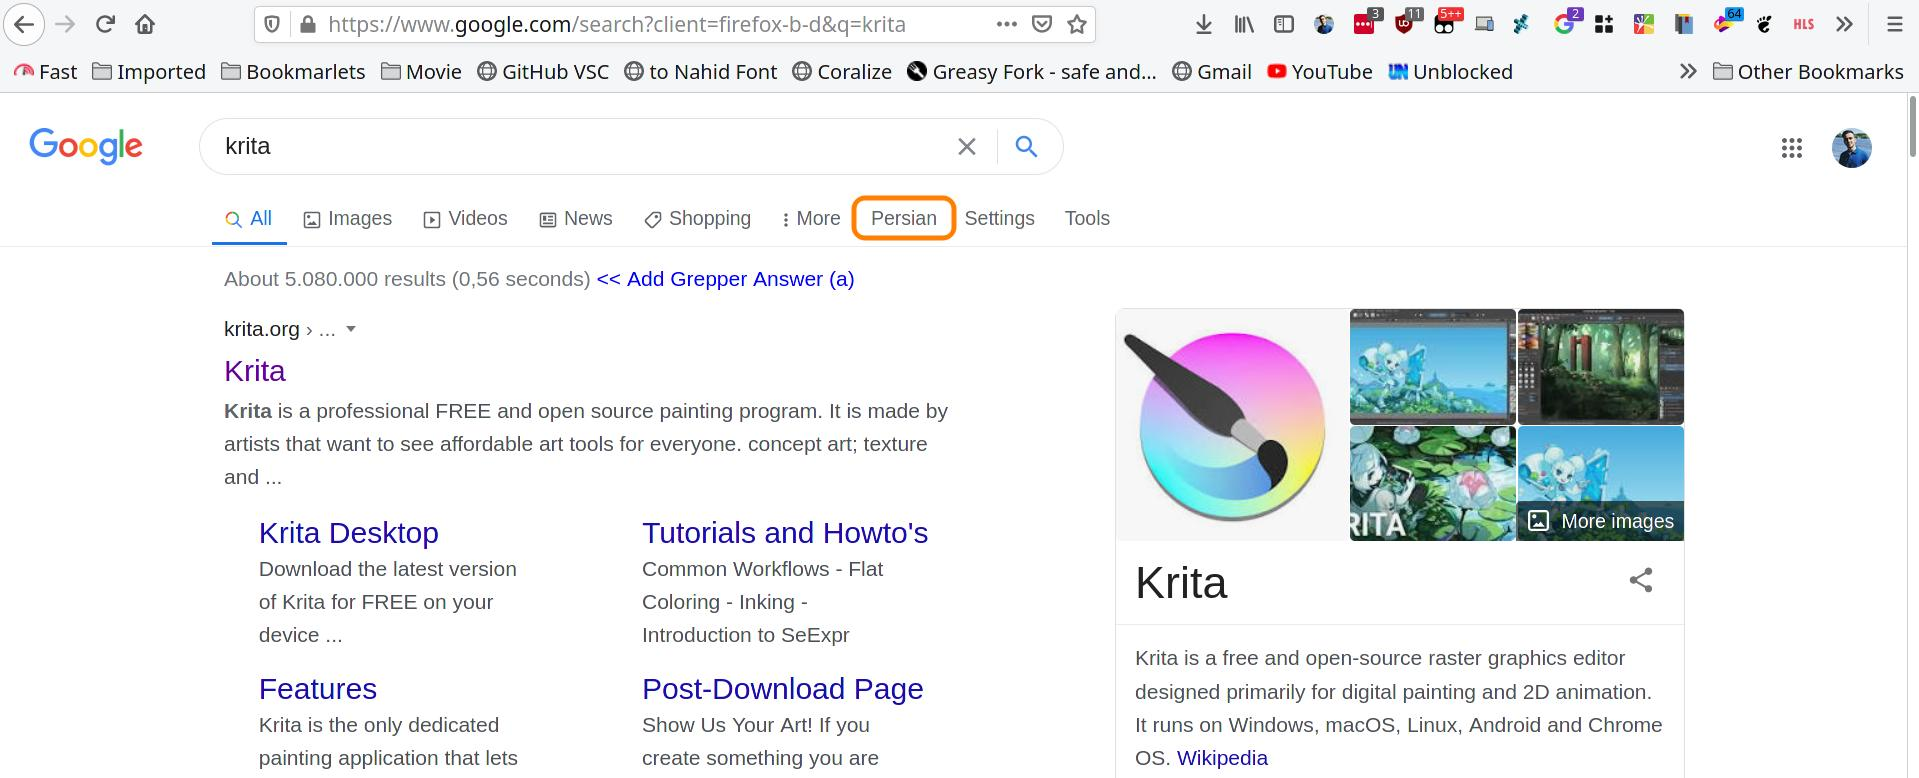
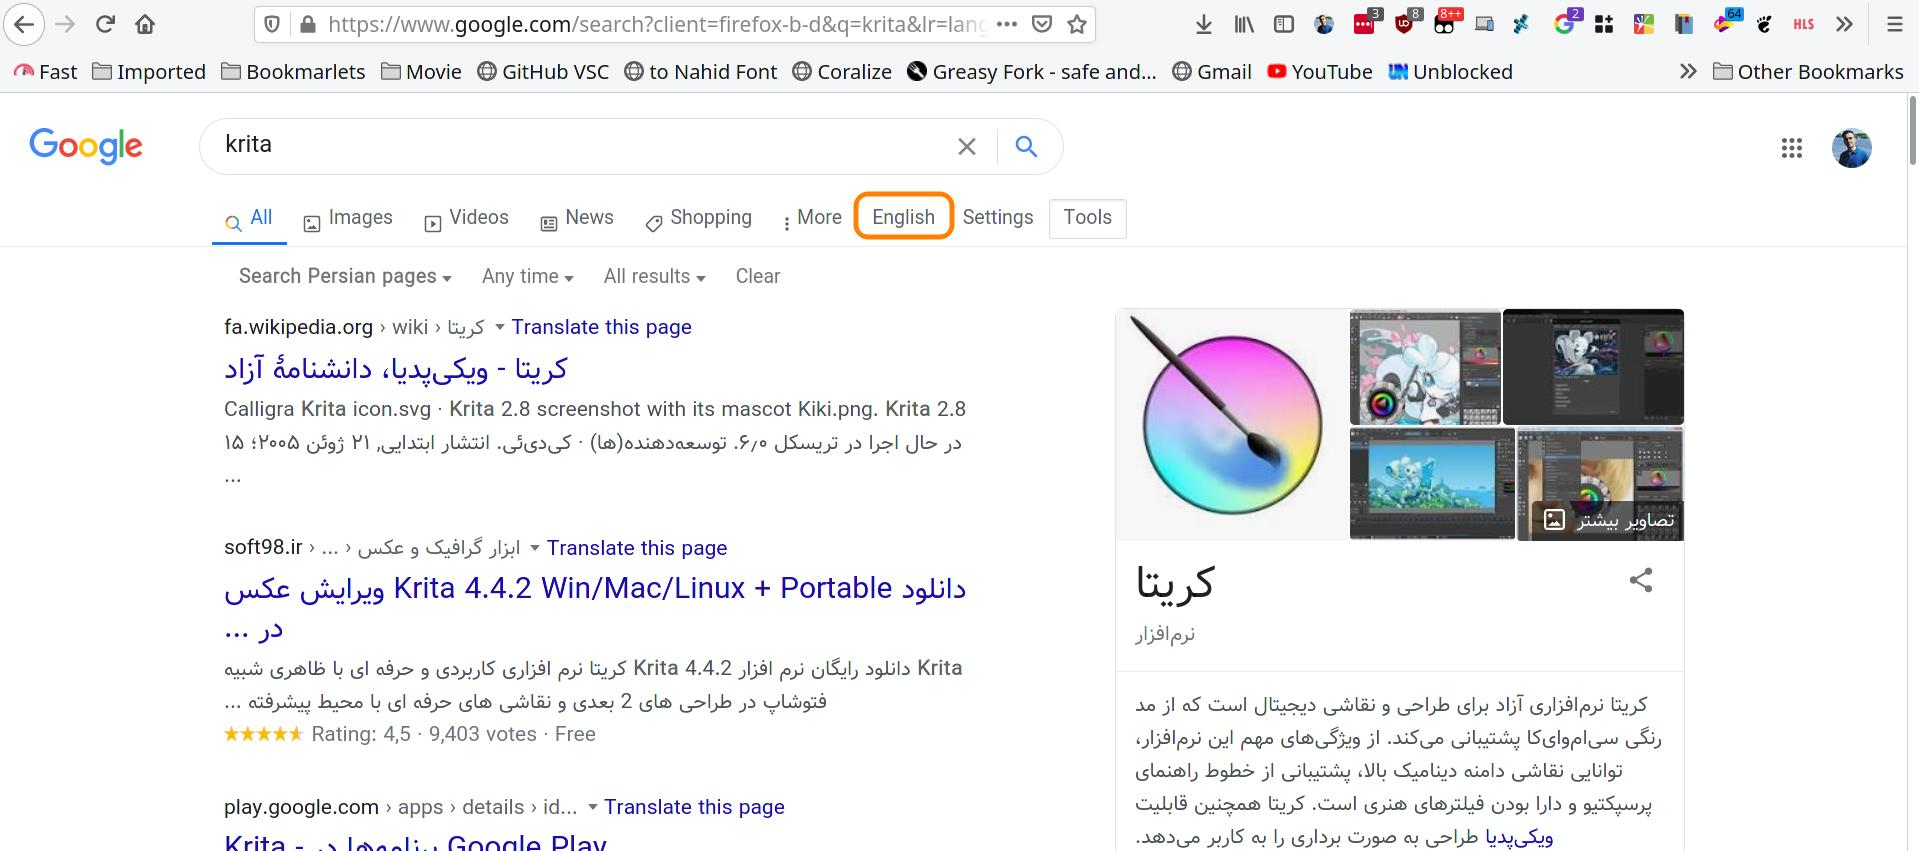
Mobile Screenshot Added.

diff --git a/README.md b/README.md
@@ -1,46 +1,34 @@
 <h2 align="center">
-GSearch Toggle Lang
+GSearch Persian
 </h2>
 <hr>
 
-The userscript, GSearch Toggle Lang, enables users to switch between two different languages for Google search results. It provides the functionality to change the language of the search results displayed on Google.
+The userscript, GSearch Persian, enables users to switch between searches in Persian or all pages. It provides the functionality to change the language of the search results displayed on Google.
 
-__Note__: GToggle Search is  without RTL Direction
+__Note__: It without RTL Direction
 
 
 ### Summary
-GSearch Toggle is a user script for browsers that executes scripts like Tampermonkey, Greasemonkey, and others. It allows users to switch between English and Persian search results without the right-to-left (RTL) direction effect. This can be done by adding a button beneath the Google search box.
+GSearch Toggle is a browser user script that executes scripts like Tampermonkey, Greasemonkey, and others. It allows users to switch between English and Persian search results without the right-to-left (RTL) direction effect. This can be done by adding a button beneath the Google search box.
 
 
 ### Features
-- Add a Persian/English button in google search page.
+- Add a Persian button on the Google result page.
 
+<br><br>
+[![](https://visitcount.itsvg.in/api?id=amm1rr&label=V&color=0&icon=2&pretty=true)](https://github.com/Amm1rr/)
 
 ## Screenshots
 
 <div align="center">
-    <a href="Screenshots/01.jpg">
-        <img src="Screenshots/01_thumbnail.jpg" height="250px" width="250px" alt="Screenshot" />
-        <br><br>
-        <span>Screenshot 1 full size</span>
-    </a>
 
-    <br /><br /><br /><br />
+![Screenshot 1](Screenshots/01.jpg)
+[![Screenshot 1](Screenshots/01_thumbnail.jpg)](Screenshots/01.jpg)
 
-    <a href="Screenshots/02.jpg">
-        <img src="Screenshots/02_thumbnail.jpg" height="250px" width="250px" alt="Screenshot" />
-        <br><br>
-        <span>Screenshot 2 full size</span>
-    </a>
+![Screenshot 2](Screenshots/02.jpg)
+[![Screenshot 2](Screenshots/02_thumbnail.jpg)](Screenshots/02.jpg)
 
-    <br /><br /><br /><br />
+![Screenshot Mobile](Screenshots/Mobile.jpg)
+[![Screenshot Mobile](Screenshots/Mobile_thumbnail.jpg)](Screenshots/Mobile.jpg)
 
-    <a href="Screenshots/03.jpg">
-        <img src="Screenshots/03_thumbnail.jpg" height="250px" width="250px" alt="Screenshot" />
-        <br /><br /><br /><br />
-        <span>Screenshot 3 full size</span>
-    </a>
 </div>
-<br />
-
-[![](https://visitcount.itsvg.in/api?id=amm1rr&label=Views&color=0&icon=2&pretty=true)](https://github.com/Amm1rr/)
